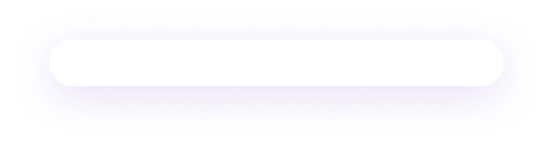
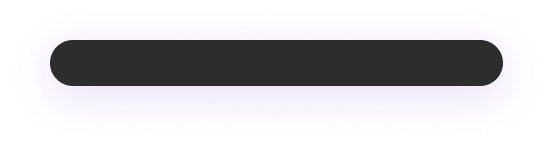
Updating design to dark mode

Changed region(s): [[0.0922, 0.274, 0.9222, 0.6027]]

diff --git a/Nick - Image Optimization and Conversion.py b/Nick - Image Optimization and Conversion.py
@@ -89,7 +89,7 @@ try:
     Root_Window = Tk()
     Root_Window.resizable(False, False)
     Root_Window.geometry("980x580")
-    Root_Window.configure(bg="#FFFFFF")
+    Root_Window.configure(bg="#151515")
     Root_Window.title("Nick - Image Optimization and Conversion")
     Root_Window.iconbitmap(Relative_To_Assets("icon.ico"))
 
@@ -101,7 +101,7 @@ try:
     # 🌈 UI
     canvas = Canvas(
         Root_Window,
-        bg="#FFFFFF",
+        bg="#151515",
         height=580,
         width=980,
         bd=0,
@@ -178,10 +178,10 @@ try:
     entry_bg_1 = canvas.create_image(567.5, 74.0, image=entry_image_1)
     entry_1 = Entry(
         bd=0,
-        bg="#FFFFFF",
-        fg="#000000",
-        disabledbackground="#FFFFFF",
-        disabledforeground="#000000",
+        bg="#2D2D2D",
+        fg="#FFFFFF",
+        disabledbackground="#2D2D2D",
+        disabledforeground="#FFFFFF",
         textvariable=entry_DefPath,
         highlightthickness=0,
         state="disabled",
@@ -194,7 +194,7 @@ try:
         53.0,
         anchor="nw",
         text="Select Folder",
-        fill="#000000",
+        fill="#FFFFFF",
         font=("Mulish Regular", 18 * -1),
     )
 
@@ -204,8 +204,8 @@ try:
         y=115.0,
         height=5,
         width=50,
-        bg="#ECEBFB",
-        fg="#000000",
+        bg="#232323",
+        fg="#FFFFFF",
         font=("Mulish Regular", 18 * -1),
         highlightcolor="#ECC0FB",
         border=0,
@@ -217,7 +217,7 @@ try:
         155.0,
         anchor="nw",
         text="Images found inside the folder",
-        fill="#000000",
+        fill="#FFFFFF",
         font=("Mulish Regular", 16 * -1),
     )
 

diff --git a/README.md b/README.md
@@ -5,7 +5,7 @@
 <p align="center">
   <a href="./LICENSE">License</a>
 </p>
-<img src="./Sample.png" alt="Image optimization and conversion sample." width="896px" height="auto" align="center">
+<img src="./Sample.jpg" alt="Image optimization and conversion sample." width="896px" height="auto" align="center">
 
 ## 🦾 What is this tool capable of?
 <p>With this awesome and simple tools you can:</p>
